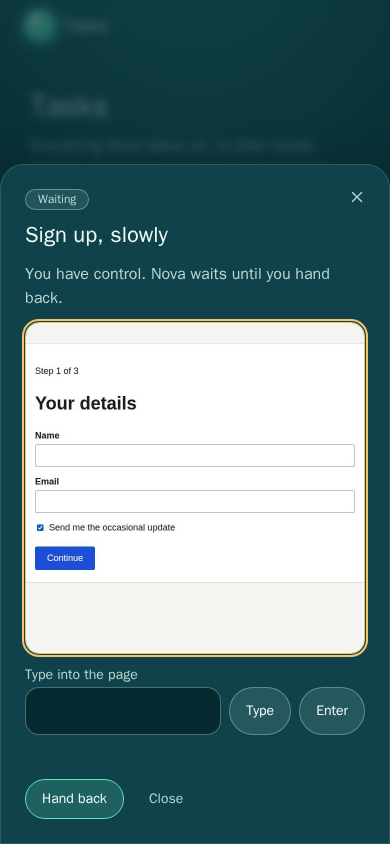
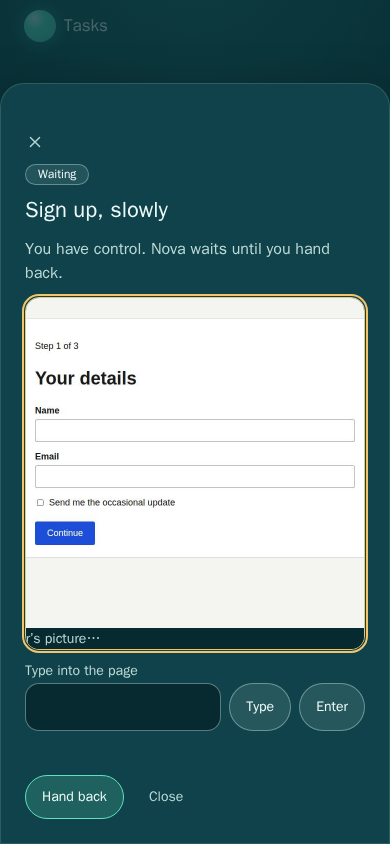
feat(m10b): Pause, Stop and Carry on in the takeover sheet; Settings › Site sign-ins
The takeover sheet keeps one standout (Take over, Hand back, or Carry on once
paused) with Pause and Stop quiet beside it, for those who may take over.
Settings › Connections gains Site sign-ins: the sites Nova's own browser keeps
something for, a form to save a sign-in (never chat), and Forget, confirmed
in a sheet (tier 3), optionally with the saved sign-in. Found by search as
sign-ins, saved passwords, logins, cookies or browser. Shell v12.

diff --git a/ui/js/sites.js b/ui/js/sites.js
@@ -1,0 +1,106 @@
+// Settings › Connections › Site sign-ins (M10b): the sites Nova's own browser keeps something for
+// (a saved sign-in, or cookies and storage in its profile), from /api/v1/browser/sites. Sign-ins
+// are saved here, never in chat; their values are never shown again. Forgetting a site deletes what
+// Nova's browser keeps for it, and is confirmed every time (tier 3).
+import { api } from './core.js';
+import { escapeHtml as esc } from './markdown.js';
+import { closeSheet, openSheet, toast } from './shell.js';
+import { over, waitingLine } from './wait.js';
+
+let data = null;   // { sites, kept }
+let failed = '';
+let rerender = () => {};
+
+export async function loadSites() {
+  try {
+    data = await api('GET', '/browser/sites');
+    over('browser-sites');
+    failed = '';
+  } catch (e) {
+    failed = e.message || 'Nova’s server didn’t answer.';
+  }
+  rerender();
+}
+
+const when = (iso) => { try { return new Date(iso).toLocaleDateString(undefined, { month: 'long', day: 'numeric', year: 'numeric' }); } catch { return ''; } };
+
+function row(s) {
+  const what = [s.login ? 'A sign-in is saved' : '', s.last_at ? `used ${when(s.last_at)}` : ''].filter(Boolean).join(', ');
+  return `<li class="conn" data-site="${esc(s.site)}">
+  <div class="conn-head"><p class="settings-label">${esc(s.site)}</p><span class="pill ${s.login ? 'is-on' : ''}">${s.login ? 'Signed in' : 'Kept data'}</span></div>
+  <p class="settings-note">${esc(what ? `${what.charAt(0).toUpperCase()}${what.slice(1)}.` : 'Nova’s browser keeps cookies for it.')}</p>
+  <div class="sheet-actions"><button type="button" class="btn small quiet" data-action="forget-site" data-site="${esc(s.site)}">Forget</button></div>
+</li>`;
+}
+
+export function renderSites() {
+  const head = '<section class="memory-section" id="browser-sites" aria-labelledby="set-browser-sites"><h2 class="memory-heading" id="set-browser-sites">Site sign-ins</h2>';
+  if (!data) return `${head}${failed ? `<p class="memory-lede">${esc(failed)}</p><button type="button" class="btn set-retry" data-action="retry-sites">Try again</button>` : waitingLine('Loading sites', { key: 'browser-sites' })}</section>`;
+  const sites = data.sites ?? [];
+  return `${head}
+<p class="memory-lede">${esc(sites.length ? 'Nova’s own browser remembers these sites between tasks, so it stays signed in where you let it. Sign-ins stay in Nova’s vault, encrypted, and are typed only into the site they belong to.' : 'Nova’s own browser hasn’t kept anything for a site yet. Save a sign-in here and Nova can sign in for you; it is typed only into the site it belongs to.')}</p>
+${sites.length ? `<ul class="conn-list">${sites.map(row).join('')}</ul>` : ''}
+<details class="raw conn-more"><summary>Save a sign-in</summary>
+<form class="site-login" data-form="site-login"><div class="field-row">
+  <div><label class="field-label">Site<input class="field" name="site" type="text" autocomplete="off" spellcheck="false" placeholder="shop.example.com" required></label></div>
+  <div><label class="field-label">Username<input class="field" name="username" type="text" autocomplete="off" spellcheck="false" required></label></div>
+  <div><label class="field-label">Password<input class="field" name="password" type="password" autocomplete="new-password" required></label></div>
+</div><p class="settings-note">Never type a password into chat. Nova never asks for one there.</p>
+<div class="sheet-actions"><button type="submit" class="btn">Save sign-in</button></div></form>
+</details>
+</section>`;
+}
+
+function forgetSheet(s) {
+  return `<form class="site-forget" data-site="${esc(s.site)}" method="dialog">
+  <h2 class="sheet-title" id="sheet-title">Forget ${esc(s.site)}?</h2>
+  <p class="sheet-line">Nova deletes the cookies and storage its browser keeps for ${esc(s.site)}, so the next task there starts signed out. This can’t be undone.</p>
+  ${s.login ? '<label class="check"><input type="checkbox" name="login" checked> Also delete its saved sign-in</label>' : ''}
+  <div class="sheet-actions">
+    <button type="submit" class="btn primary">Forget it</button>
+    <button type="button" class="btn quiet" data-action="close-sheet">Keep it</button>
+  </div>
+</form>`;
+}
+
+export function bindSites(root, render) {
+  rerender = render;
+  root.addEventListener('click', (e) => {
+    const b = e.target.closest('[data-action]');
+    if (b?.dataset.action === 'retry-sites') loadSites();
+    if (b?.dataset.action === 'forget-site') {
+      const s = data?.sites.find((x) => x.site === b.dataset.site);
+      if (s) openSheet(forgetSheet(s), { label: `Forget ${s.site}` });
+    }
+  });
+  root.addEventListener('submit', async (e) => {
+    const form = e.target.closest('.site-login');
+    if (!form) return;
+    e.preventDefault();
+    const button = form.querySelector('button[type="submit"]');
+    button.disabled = true;
+    const { site, username, password } = Object.fromEntries(new FormData(form));
+    try {
+      const r = await api('PUT', `/browser/logins/${encodeURIComponent(String(site).trim())}`, { username, password });
+      form.reset();
+      toast(`A sign-in for ${r.site} is saved.`);
+      await loadSites();
+    } catch (err) {
+      toast(err.message);
+    } finally {
+      button.disabled = false;
+    }
+  });
+  document.getElementById('sheet').addEventListener('submit', async (e) => {
+    const form = e.target.closest('.site-forget');
+    if (!form) return;
+    e.preventDefault();
+    const login = !!form.querySelector('input[name="login"]')?.checked;
+    try {
+      const r = await api('POST', `/browser/sites/${encodeURIComponent(form.dataset.site)}/forget`, { confirm: true, login });
+      closeSheet();
+      toast(`${r.site} is forgotten${r.login ? ', with its sign-in' : ''}.`);
+    } catch (err) { toast(err.message); }
+    await loadSites();
+  });
+}

diff --git a/ui/js/app.js b/ui/js/app.js
@@ -14,6 +14,7 @@ import { CATEGORIES, GROUPS, categoryOf, searchSettings } from './settings-ia.js
 import { closeMore, closeSheet, layout, markCurrent, openSheet, readLayout, runToastAction, setBadge, signal, toast as notify, toggleAside, liveOrb } from './shell.js';
 import * as core from './surfaces.js';
 import { bindConnections, loadConnections, renderConnections } from './connections.js';
+import { bindSites, loadSites, renderSites } from './sites.js';
 import { bindCapture, captureChanged, loadCapture, loadCaptureView, renderCaptureSettings, renderCaptureView } from './capture.js';
 import { bindModels, loadModels, renderModels } from './models.js';
 import { bindChanges, loadChanges, renderChanges } from './changes.js';
@@ -1626,7 +1627,7 @@ function showSettings() {
   settingsUi.touched = false;
   selectSettings(settingsTarget(location.hash).cat);
   const opened = location.hash;
-  Promise.all([loadPermissions(), refreshCore(['profile']), loadConnections(), core.loadProviders(), loadCapture(), loadModels(), loadChanges(), loadCheckpoints(), loadReset()]).then(() => {
+  Promise.all([loadPermissions(), refreshCore(['profile']), loadConnections(), loadSites(), core.loadProviders(), loadCapture(), loadModels(), loadChanges(), loadCheckpoints(), loadReset()]).then(() => {
     renderSettingsView({ only: 'you' });
     renderSettingsView({ only: 'privacy' });
     // The person has moved on since (typed in search, opened something): leave them be.
@@ -1645,6 +1646,7 @@ const PARTS = {
   perms: () => (permissions ? renderPermissions(permissions) : permissionsError ? `<section class="memory-section" id="perms" aria-labelledby="set-perms"><h2 class="memory-heading" id="set-perms">Without asking</h2>
 <p class="memory-lede">${permissionsError}</p><button type="button" class="btn set-retry" data-action="retry-settings">Try again</button></section>` : ''),
   connections: () => renderConnections(),
+  sites: () => renderSites(),
   capture: () => renderCaptureSettings(),
   models: () => renderModels(),
   changes: () => renderChanges(),
@@ -1874,6 +1876,7 @@ el.capture.addEventListener('click', (e) => { followLink(e); });
 // The indicator opens the Capture view in place, from any page.
 $('capture-ind').addEventListener('click', (e) => { followLink(e); });
 bindConnections(el.settings, () => { if (state.view === 'settings' && $('settings-connections')) renderSettingsView({ only: 'connections' }); });
+bindSites(el.settings, () => { if (state.view === 'settings' && $('settings-sites')) renderSettingsView({ only: 'sites' }); });
 // Settings › Models (M6b): hardware, roles, downloads with live progress, budgets.
 bindModels(el.settings, () => { if (state.view === 'settings' && $('settings-models')) renderSettingsView({ only: 'models' }); });
 // Settings › Changes (M7a): the change pipeline, the one waiting for you, canaries, roll back.

diff --git a/ui/js/settings-ia.js b/ui/js/settings-ia.js
@@ -9,7 +9,7 @@ export const CATEGORIES = Object.freeze([
   { id: 'you', label: 'You and Nova', summary: 'Names and how Nova talks to you', parts: ['you'] },
   { id: 'appearance', label: 'Appearance', summary: 'Theme, light and dark, contrast', parts: ['look'] },
   { id: 'privacy', label: 'Privacy and permissions', summary: 'What stays here, what asks first, capture', parts: ['privacy', 'perms', 'capture'] },
-  { id: 'connections', label: 'Connections', summary: 'Accounts and services Nova can reach', parts: ['connections'] },
+  { id: 'connections', label: 'Connections', summary: 'Accounts and services Nova can reach', parts: ['connections', 'sites'] },
   { id: 'models', label: 'Models and providers', summary: 'Local models and outside help', parts: ['providers', 'models'] },
   { id: 'devices', label: 'Devices', summary: 'Phones and computers paired with Nova', parts: ['devices'] },
   { id: 'backups', label: 'Backups and changes', summary: 'Checkpoints, restores, Nova’s own changes', parts: ['checkpoints', 'changes'] },
@@ -38,6 +38,7 @@ export const ENTRIES = Object.freeze([
   { cat: 'privacy', label: 'Without asking', target: 'perms', words: ['permissions', 'permission', 'ask first', 'approvals', 'approve', 'allow', 'trust', 'without asking', 'auto approve'] },
   { cat: 'privacy', label: 'Capture', target: 'capture', words: ['screenpipe', 'capture source', 'capture sources', 'sources', 'never capture', 'spaces', 'retention', 'capture', 'screen', 'record', 'recording', 'watch', 'clipboard', 'what nova sees', 'notes from apps'] },
   { cat: 'connections', label: 'Connections', target: 'connections', words: ['connections', 'connection', 'connectors', 'integrations', 'accounts', 'account', 'home assistant', 'gmail', 'email', 'mail', 'calendar', 'services', 'link'] },
+  { cat: 'connections', label: 'Site sign-ins', target: 'browser-sites', words: ['site sign-ins', 'site sign-in', 'sign-ins', 'sign ins', 'saved passwords', 'passwords', 'logins', 'login', 'log in', 'cookies', 'browser', 'nova browser', 'websites', 'web sites', 'forget site', 'signed in'] },
   { cat: 'models', label: 'Providers', target: 'providers', words: ['api key', 'api keys', 'token', 'n8n', 'relay', 'providers', 'provider', 'api key', 'claude', 'openai', 'cloud model', 'coding agent', 'outside help'] },
   { cat: 'models', label: 'Models', target: 'models', words: ['models', 'model', 'local models', 'ollama', 'download', 'llm', 'ai', 'gpu', 'disk space'] },
   { cat: 'devices', label: 'Paired devices', target: 'devices', words: ['tailscale', 'mesh address', 'network', 'remote access', 'hub', 'standby', 'devices', 'device', 'phone', 'phones', 'pair', 'pairing', 'add a device', 'add phone', 'qr', 'qr code', 'tablet', 'laptop', 'computer', 'mesh', 'revoke', 'iphone', 'android'] },

diff --git a/ui/js/components.js b/ui/js/components.js
@@ -395,6 +395,8 @@ export function takeoverState(v, { me = 'console', canTake = true } = {}) {
     return { status: 'waiting', line, action, held, mine };
   }
   if (v.mode === 'needs_person') return { status: 'needs-you', line: `Needs you: ${v.asked ?? 'a step only a person can do.'}`, action: canTake ? 'take-over' : null, held, mine };
+  // M10b: the person paused it; Carry on is theirs.
+  if (v.mode === 'paused') return { status: 'waiting', line: 'Paused. Nova does nothing until you let it carry on.', action: canTake ? 'resume' : null, held, mine };
   if (v.mode === 'starting') return { status: 'working', line: 'Nova is opening a browser.', action: null, held, mine };
   if (v.mode === 'finishing') return { status: 'working', line: 'Nova has finished the steps and is taking its evidence.', action: null, held, mine };
   return { status: 'working', line: `Nova is working. ${stepLine(v)}`.trim(), action: canTake ? 'take-over' : null, held, mine };
@@ -403,9 +405,14 @@ export function takeoverState(v, { me = 'console', canTake = true } = {}) {
 export function takeoverActions(st, { canTake = true } = {}) {
   const primary = st.action === 'take-over'
     ? '<button type="button" class="btn primary" data-action="take-over">Take over</button>'
-    : st.action === 'hand-back' ? `<button type="button" class="btn primary" data-action="hand-back">${st.mine ? 'Hand back' : 'End their takeover'}</button>` : '';
+    : st.action === 'hand-back' ? `<button type="button" class="btn primary" data-action="hand-back">${st.mine ? 'Hand back' : 'End their takeover'}</button>`
+      : st.action === 'resume' ? '<button type="button" class="btn primary" data-action="resume-browser">Carry on</button>' : '';
   const why = !canTake && !st.held && st.status !== 'quiet' ? `<p class="sheet-line takeover-only">${esc(TAKE_OVER_ONLY)}</p>` : '';
-  return `${why}${primary}<button type="button" class="btn quiet" data-action="close-sheet">Close</button>`;
+  // M10b: the person in control can pause the worker or stop the task, quietly beside the standout.
+  const live = canTake && st.status !== 'quiet' && !st.held;
+  const pause = live && st.action === 'take-over' && st.status === 'working' ? '<button type="button" class="btn quiet" data-action="pause-browser">Pause</button>' : '';
+  const stopBtn = live ? '<button type="button" class="btn quiet" data-action="stop-browser">Stop</button>' : '';
+  return `${why}${primary}${pause}${stopBtn}<button type="button" class="btn quiet" data-action="close-sheet">Close</button>`;
 }
 
 export function takeoverRefused(v) {

diff --git a/tests/ui-takeover.test.js b/tests/ui-takeover.test.js
@@ -20,6 +20,22 @@ test('working: Nova says which step; Take over is the one standout, for those al
   assert.doesNotMatch(takeoverActions(phone, { canTake: false }), /btn primary/);
 });
 
+test('M10b: Pause and Stop beside Take over, quiet; paused, Carry on is the one standout', () => {
+  const html = takeoverActions(takeoverState(view()));
+  assert.match(html, /data-action="pause-browser">Pause</);
+  assert.match(html, /data-action="stop-browser">Stop</);
+  assert.equal((html.match(/btn primary/g) ?? []).length, 1, 'Take over stays the one standout');
+  const paused = takeoverState(view({ mode: 'paused' }));
+  assert.deepEqual([paused.status, paused.line, paused.action], ['waiting', 'Paused. Nova does nothing until you let it carry on.', 'resume']);
+  const ph = takeoverActions(paused);
+  assert.match(ph, /class="btn primary" data-action="resume-browser">Carry on</);
+  assert.match(ph, /data-action="stop-browser">Stop</);
+  assert.doesNotMatch(ph, /pause-browser/);
+  // Someone who may not take over may not pause or stop either.
+  const phone = takeoverActions(takeoverState(view(), { me: 'device:p1', canTake: false }), { canTake: false });
+  assert.doesNotMatch(phone, /pause-browser|stop-browser/);
+});
+
 test('asked for: Needs you, in the words the worker used', () => {
   const st = takeoverState(view({ mode: 'needs_person', asked: 'Type the code shown in the picture.' }));
   assert.deepEqual([st.status, st.line, st.action], ['needs-you', 'Needs you: Type the code shown in the picture.', 'take-over']);

diff --git a/ui/sw.js b/ui/sw.js
@@ -3,13 +3,13 @@
 // When it isn't, a GET is answered from the cache and marked x-nova-offline, and the page says
 // so: an honest offline state, never stale data presented as live. Changes (POST, PUT, DELETE)
 // and the event streams are never cached or answered offline.
-const VERSION = 'nova-shell-v11';
+const VERSION = 'nova-shell-v12';
 const SHELL = [
   '/', '/manifest.webmanifest', '/icon.svg', '/icons/icon-192.png', '/icons/icon-512.png',
   '/styles/base.css', '/styles/components.css', '/styles/views.css', '/styles/layout.css', '/styles/models.css', '/styles/changes.css', '/styles/reset.css',
   '/js/app.js', '/js/core.js', '/js/shell.js', '/js/layout.js', '/js/nav.js', '/js/status.js', '/js/components.js',
   '/js/surfaces.js', '/js/setup.js', '/js/theme.js', '/js/view.js', '/js/markdown.js', '/js/reduce.js', '/js/qr.js', '/js/device-key.js', '/js/takeover.js',
-  '/js/connections.js', '/js/capture.js', '/js/models.js', '/js/changes.js', '/js/checkpoints.js', '/js/reset.js', '/js/forget-here.js', '/js/settings-ia.js', '/js/contrast.js', '/js/look.js', '/js/wait.js', '/js/skeleton.js',
+  '/js/connections.js', '/js/sites.js', '/js/capture.js', '/js/models.js', '/js/changes.js', '/js/checkpoints.js', '/js/reset.js', '/js/forget-here.js', '/js/settings-ia.js', '/js/contrast.js', '/js/look.js', '/js/wait.js', '/js/skeleton.js',
 ];
 // Memory and context receipts are never kept here: a forgotten memory must not survive in a
 // cache (owner's standing order 4), so these are network-only.

diff --git a/ui/js/takeover.js b/ui/js/takeover.js
@@ -101,6 +101,21 @@ async function takeOver() {
   } catch (e) { toast(e.message); }
 }
 
+// M10b: pause, carry on, stop.
+async function control(what) {
+  if (!live) return;
+  try {
+    if (what === 'stop') {
+      await api('POST', path(live.id, '/stop'));
+      toast('Stopped. Nova closed the browser.');
+      return;
+    }
+    live.view = await api('POST', path(live.id, what === 'pause' ? '/pause' : '/resume'));
+    render();
+    toast(what === 'pause' ? 'Paused. Nova does nothing until you let it carry on.' : 'Nova carries on.');
+  } catch (e) { toast(e.message); }
+}
+
 async function handBack() {
   if (!live) return;
   try {
@@ -122,6 +137,9 @@ document.addEventListener('click', (e) => {
   const b = e.target.closest('[data-action]');
   if (b?.dataset.action === 'take-over') { e.preventDefault(); takeOver(); return; }
   if (b?.dataset.action === 'hand-back') { e.preventDefault(); handBack(); return; }
+  if (b?.dataset.action === 'pause-browser') { e.preventDefault(); control('pause'); return; }
+  if (b?.dataset.action === 'resume-browser') { e.preventDefault(); control('resume'); return; }
+  if (b?.dataset.action === 'stop-browser') { e.preventDefault(); control('stop'); return; }
   if (b?.dataset.action === 'takeover-key') { e.preventDefault(); if (holding()) send({ type: 'key', key: b.dataset.key }); return; }
   const img = e.target.closest('.takeover-frame');
   if (img && holding()) {

diff --git a/tests/ui-fixes.test.js b/tests/ui-fixes.test.js
@@ -89,7 +89,7 @@ test('chat: a work-trail entry says how long it took and when it finished', () =
 
 test('settings: one structure, grouped by task, one level deep, every part in exactly one place', () => {
   const parts = CATEGORIES.flatMap((c) => c.parts);
-  assert.deepEqual([...parts].sort(), ['capture', 'changes', 'checkpoints', 'connections', 'danger', 'devices', 'look', 'models', 'perms', 'privacy', 'providers', 'you']);
+  assert.deepEqual([...parts].sort(), ['capture', 'changes', 'checkpoints', 'connections', 'danger', 'devices', 'look', 'models', 'perms', 'privacy', 'providers', 'sites', 'you']);
   assert.equal(new Set(parts).size, parts.length);
   for (const c of CATEGORIES) {
     assert.ok(c.label && c.summary && GROUPS.some((g) => g.cats.includes(c.id)), c.id);
@@ -97,6 +97,8 @@ test('settings: one structure, grouped by task, one level deep, every part in ex
   }
   assert.equal(CATEGORIES.at(-1).id, 'danger', 'starting over stays last, set apart');
   for (const e of ENTRIES) assert.ok(CATEGORIES.some((c) => c.id === e.cat), e.label);
+  // M10b: Nova Browser's sign-ins, found by the words people use.
+  for (const q of ['site sign-ins', 'saved passwords', 'logins', 'cookies', 'browser']) assert.equal(searchSettings(q)[0]?.target, 'browser-sites', q);
 });
 
 test('settings search knows people’s words, not just labels, and shows the path', () => {

diff --git a/tests/ui/m10b-login.test.ts b/tests/ui/m10b-login.test.ts
@@ -38,7 +38,7 @@ test('M10b gate 1: a login from the vault leaves the fake secret in no transcrip
     const ev = await n.events(id!);
     assert.ok(ev.some((e) => e.kind === 'signed_in_with' && e.detail.fields === 2), 'the worker signed in');
     assert.ok(ev.some((e) => e.kind === 'copilot' && e.detail.model === true), 'the co-pilot was asked, on the local model');
-    assert.equal(shop.hits('/login').filter((h) => h.method === 'POST').length, 1, 'the stand-in got exactly one sign-in');
+    assert.equal(shop.hits('/login').filter((h: { method: string }) => h.method === 'POST').length, 1, 'the stand-in got exactly one sign-in');
 
     // The search: nothing Nova wrote holds the username or the password.
     const secrets = [cred.password, cred.username];
